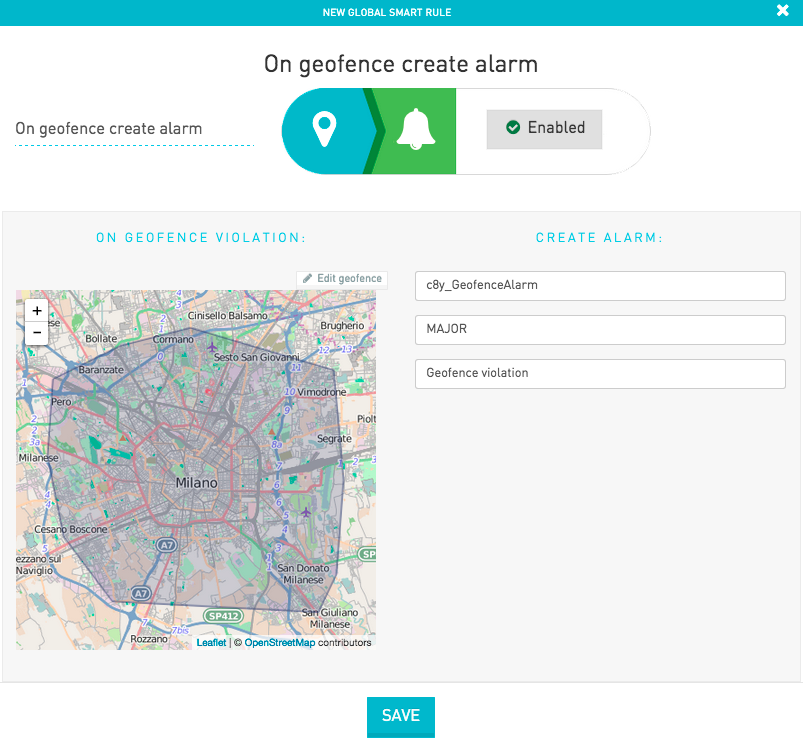
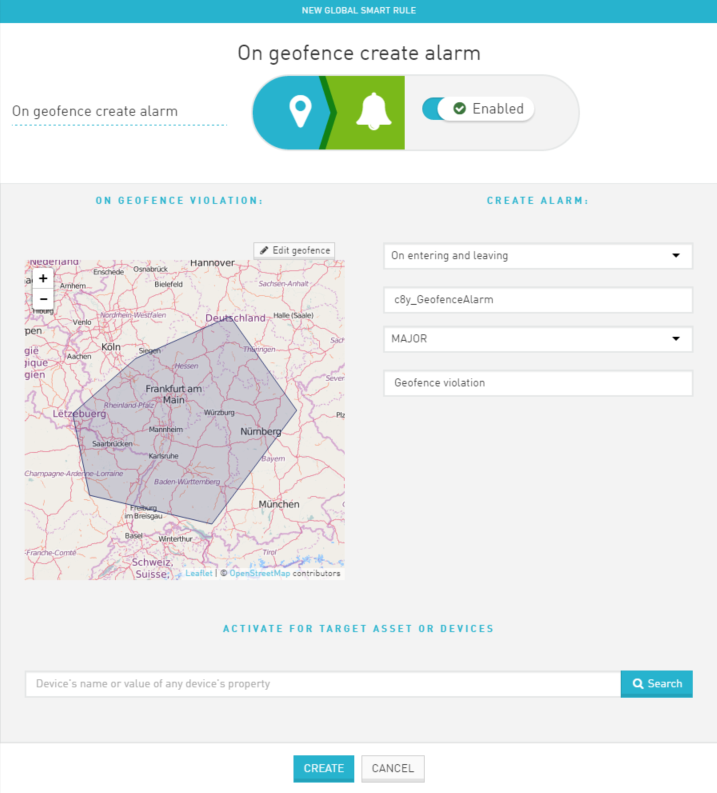
update docs for geofence rule

diff --git a/src/documents/guides/users-guide/cockpit.html.md b/src/documents/guides/users-guide/cockpit.html.md
@@ -477,7 +477,7 @@ Note: Edit a dashboard using your PC. Editing on touch devices (smartphones, tab
 
 To copy a dashboard from one object to another, use the cogs wheel on the top right and select "Copy dashboard". Afterwards select the object where the dashboard should be applied and press "Paste Dashboard" to insert the dashboard.
 
-An alternative way to copy a dashboard is to use the "[Dashboard per type](#creating-a-dashboard-for-all-devices-of-the-same-type)" approach.  With the "Dashboard per type" approach you copy the dashboard from one object to **all** objects of the same type. 
+An alternative way to copy a dashboard is to use the "[Dashboard per type](#creating-a-dashboard-for-all-devices-of-the-same-type)" approach.  With the "Dashboard per type" approach you copy the dashboard from one object to **all** objects of the same type.
 
 ### Removing a Dashboard
 
@@ -1096,7 +1096,9 @@ The rule uses the following parameters:
 
 * Severity: Severity of the alarm that will be raised.
 
-_Note:_ The rule will trigger on crossing the geofence border. Therefore if your device is located outside the geofence when creating the rule no alarm will be generated until the device moves into the geofence first.
+* TriggerAlarmOn: Defining on which geofence interaction the alarm should be created. Values: "leaving", "entering" or "both". Not setting the value results in "leaving".
+
+_Note:_ The rule will trigger on crossing the geofence border. Therefore if your device stays outside or inside the geofence when creating the rule no alarm will be generated until the device crosses the geofence border for the first time.
 
 ** Troubleshooting **
 
